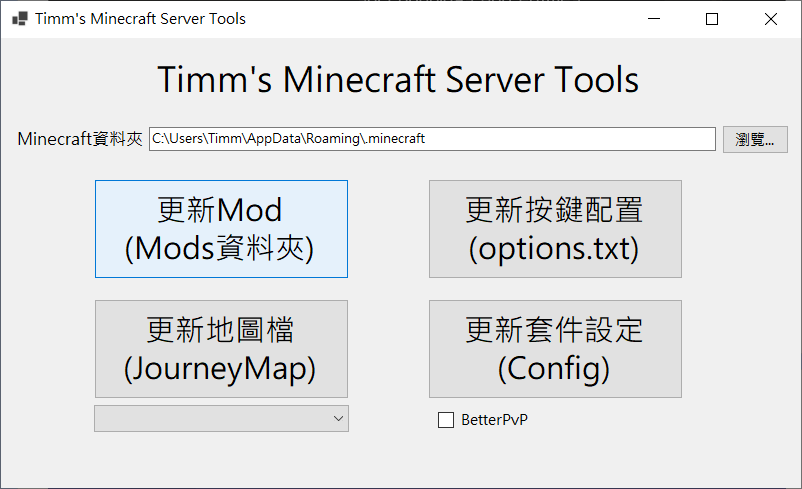
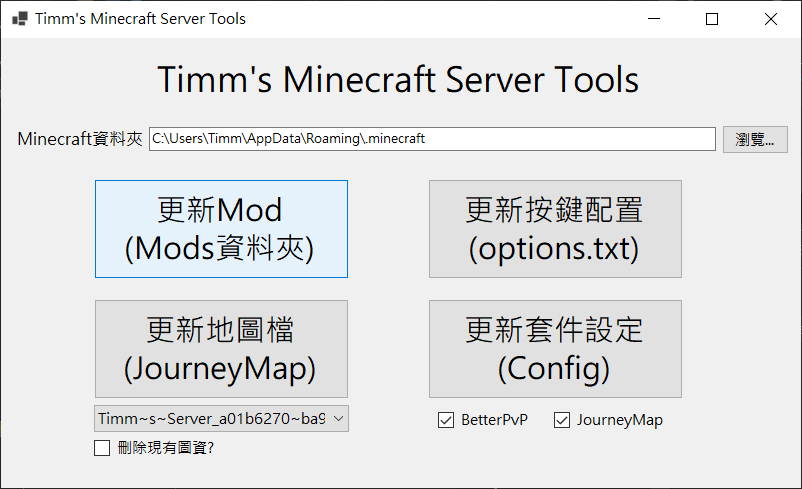
Update markdowns

diff --git a/setup.md b/setup.md
@@ -1,0 +1,82 @@
+# Timm's Minecraft Server安裝方法
+#### I 安裝Minecraft
+* 購買正版下載器<br>
+  (1) [購買](https://www.minecraft.net/zh-hans/store/minecraft-java-edition)帳號<br>
+  (2) 下載與安裝[啟動器](https://www.minecraft.net/zh-hans/download) <br>
+  (3) 下載與安裝Forge <br>
+  <img src="./images/3-1.png"  height="200">
+  <img src="./images/3-2.png"  height="200"><br>
+  (4) 開啟Launcher登入已購買的帳號 <br>
+  <img src="./images/3-3.png"  width="400"> <br>
+  (5) 新增安裝檔 <br>
+  <img src="./images/3-4.png"  width="600"> <br>
+  (6) 選剛才安裝好的 Release 1.16.5-forge-36.2.0 <br>
+  <img src="./images/3-5.png"  width="600"> <br>
+  (7) 點選"更多選項"，設定擴大RAM為4G (避免日後記憶體不足)  <br>
+  <img src="./images/7-2.png"  width="400"> <br>
+  (8) 等待安裝完成，開始遊戲即可! <br>
+  <img src="./images/3-6.png"  width="400"> <br>
+
+* 或先安裝第三方安裝程式<br>
+  ▹ [MC-Launcher](https://mc-launcher.com/launchers) <br>
+  (1) 先建立帳戶<br>
+  <img src="./images/2-1.png"  width="600"> <br>
+  (2) 選擇正版或其他帳戶，並輸入帳密或名稱<br>
+  <img src="./images/2-2.png"  width="600"> <br>
+  (3) 選定安裝版本(Forge 1.16.5)<br>
+  <img src="./images/2-3.png"  width="600"> <br>
+  
+#### II 安裝MOD與初始設定
+  1. **請下載自製"[檔案匯入小工具](https://github.com/timmchentw/Timms-Minecraft-Server/tree/main/files/Timm's%20Minecraft%20Tools)"** <br>
+  點選按鈕進行設定檔置換
+  ![](images/4.png)
+  2. **點選"安裝Mods"**<br>
+  會直接下載目前伺服器所需的所有MOD (下載期間請耐心等待)<br>
+  ※ 注意私自安裝的MOD會一併作刪除，更新前請先備份好<br>
+  (路徑為 C:/Users/XXX/AppData/Roaming/.minecraft/mods)
+
+  3. **點選"更新按鍵配置"**<br>
+  會套用符合使用的按鍵設定、語言、資源包設定等<br>
+  (路徑為 C:/Users/XXX/AppData/Roaming/.minecraft/options.txt)
+
+  4. **點選"更新套件設定"**<br>
+  勾選右下角的目標套件在進行點選，即可套用最新的MOD設定<br>
+  ※ BetterPvp為介面模組，有重複的小地圖功能，更新設定後會自動關閉掉<br>
+  (路徑為C:/Users/XXX/AppData/Roaming/.minecraft/config)<br>
+<br>
+  ※ 匯入地圖檔請在進入多人遊戲後，再做匯入，否則找不到多人世界的資料夾!<br>
+  ※ 日後伺服器MOD或地圖檔有更新時，再打開小工具快速更新即可! 
+  
+#### III 連線到多人伺服器
+  1. **新增多人伺服器**<br>
+  點選多人遊戲→新增伺服器，伺服器名稱自定義(待會匯入地圖檔會用到)、<br>
+  網址輸入"minecraft.timmchen.com"，點選完成後直接連線
+  <img src="./images/5-1.png"  width="500"> <br>
+  <img src="./images/5-2.png"  width="500"> <br>
+  <img src="./images/5-3.png"  width="500"> <br>
+  2. **送出申請表單**<br>
+  此時進入多人遊戲後會被擋住，請先到[主頁表單連結](./readme.md#申請與安裝方法)填寫入伺服器申請，<br>
+  送出表單後，通知OP人工核准後始可登入<br>
+  <br>
+  Ps. 伺服器使用Simple login模組避免帳號被盜用，<br>
+  第一次連線請輸入密碼，進入伺服器將會把此密碼存入 (之後進入遊戲不需再輸入)<br>
+  相關注意事項如下：<br>
+        1. 如需更改密碼：可在遊戲中輸入/sl_change_password 更改<br>
+        2. 如忘記密碼：可以到你的電腦路徑C:\Users\XXX\AppData\Roaming\.minecraft\.sl_password中查看<br>
+        3. 如重裝minecraft：請設定跟當初第一次進入伺服器一樣的密碼才能連線，如忘記請通知OP重設密碼<br>
+        <img src="./images/5-4.png"  width="400"> <br>
+        
+#### IV 匯入地圖檔
+* Server使用JourneyMap Mod作為世界地圖，圖資生成存在自己電腦內 (自己要開黑色區域)，並可儲存WayPoints指出方位，可參考[Mod官網](https://journeymap.info/Multiplayer_Server_Map)
+* 請使用上方提到的"[匯入小工具]()"，將最新版的全地圖檔匯入剛才新增的"多人世界" (下拉式選單選擇名稱)，重新進入世界後即可全開地圖!
+* 地圖檔只會在自己周圍更新，因此推薦可造飛機多繞繞地圖~<br>
+    (地圖檔路徑在 C:\users\XXX\AppData\Roaming\.minecraft\journeymap\data\mp\SERVER_NAME)
+    <img src="./images/8-1.png"  width="400"> <br>
+    <img src="./images/8-3.png"  width="600"> <br>
+    
+## 疑難排解
+1. 安裝有問題的話請裝[Java](https://www.java.com/zh-TW/download/manual.jsp)看看
+2. 如果進入伺服器遇到Mod List不符的錯誤訊息，請再用小工具更新Mods即可
+3. 伺服器列表右下角打紅色叉叉不影響進入 (此為Mod檢查，玩家Mod部分多於Server Mod數量，正常)
+4. 因Mod眾多，按鈕有許多衝突，建議一定要用小工具匯入options.txt，確保按鈕都正常運作 (也可在ESC→選項→按鍵設定)
+5. 預設Minecraft僅允許2GB的RAM使用量，如使用光影或較細緻的材質包切換時可能會使遊戲當掉，建議務必在啟動器的"安裝檔設定"當中將"-Xmx2G"擴大到至少"-Xmx4G"以上

diff --git a/readme.md b/readme.md
@@ -1,21 +1,22 @@
-#Timm's Minecraft Server
+# Timm's Minecraft Server
 
-<img src="./images/0.png"  width="600" style="box-shadow: 0 0 10px 1px rgba(0, 0, 0, 0.7);">
-<img src="https://docs.google.com/drawings/d/e/2PACX-1vQvHInp69r4fQ1aUIF2Jm4krgCnhwB6Ufdxi76_wB9l0t6WiSDdPwJxcYIYg1KTWvgbxDqt6CGMrl4F/pub?w=640&amp;h=640">
+<img src="https://docs.google.com/drawings/d/e/2PACX-1vQvHInp69r4fQ1aUIF2Jm4krgCnhwB6Ufdxi76_wB9l0t6WiSDdPwJxcYIYg1KTWvgbxDqt6CGMrl4F/pub?w=500&amp;h=500">
+
 * [協作地圖](https://docs.google.com/drawings/d/14CkqO0yurGKy7m1i6QX_AyAPa7ecaTq3OsKWUSnJWo4/edit?usp=sharing)<br>
 * [模組與設定匯入小工具](https://github.com/timmchentw/Timms-Minecraft-Server/tree/main/files/Timm's%20Minecraft%20Tools) <br>
-* 快速上手<br>
-* Mod圖說<br>
-* Mod詳細列表<br>
+* [快速上手](https://docs.google.com/presentation/d/1msM5YNsXpt14wGQ0t3xbDOrEIKE55fgAX7pzxHYfUho/edit?usp=sharing)<br>
+* [Mod圖說](https://docs.google.com/document/d/1Qc1ljT_9D0RBvlq08HDihXI4edl3lFVBeVYlCp3eM38/edit?usp=sharing)<br>
+* [Mod詳細列表](https://docs.google.com/spreadsheets/d/1DfdwHGWw16sB9SxYdnkzX8Z524wlGDj4/edit?usp=sharing&ouid=115710445649749300574&rtpof=true&sd=true)<br>
+* World Seed: -2084759484 <br>
 <br>
 
-##安裝與申請方法
+## 申請與安裝方法
 伺服器採核准制、開發新地區請先通知OP (協作地圖劃領地，避免搶地) <br>
-[填寫申請表單](https://docs.google.com/forms/d/e/1FAIpQLScS9ufVmnlSQZY-I-1Bgzz4fMALIoKJcxtk1ZWwJKomBBDzSw/viewform)
+[>>填寫申請表單](https://docs.google.com/forms/d/e/1FAIpQLScS9ufVmnlSQZY-I-1Bgzz4fMALIoKJcxtk1ZWwJKomBBDzSw/viewform)<br>
+[>>安裝步驟](./setup.md)
 
 
-
-##社群
+## 社群與資源
 * Line官方帳號<br>
 歡迎加入Line聊天機器人，可快速查看連結與即時接收伺服器更新通知!<br>
 <img src="./images/1.png"  width="200">
@@ -23,3 +24,50 @@
 * Discord<br>
 歡迎加入[Discord](https://discord.gg/XSmgz6SaTq)在遊戲中交談! 
 <img src="./images/6.png"  width="600">
+
+* [Official Skin](https://www.minecraft.net/zh-hans/msaprofile/mygames/editskin)
+* [BlessingSkin](https://skin.prinzeugen.net/)
+
+
+
+
+## 伺服器須知
+1. 伺服器地圖檔每天都會做備份，檔案保留三天 (平日24:00、假日12:00 & 18:00 & 24:00)
+2. 考慮未來升版本，將不會更新已開發區域，再請盡量把家蓋在+-1000的座標以內，以便外圍區域套用到新版本內容
+3. 地圖因檔案大小將定期刪除沒用到的區域，請盡量避免將物品放置在離市中心太遠的地方 (座標+-2000)
+4. Skin Mod 建議使用正版帳號[上傳](https://www.minecraft.net/zh-hans/msaprofile/mygames/editskin)、或推薦第三方Skin站：[BlessingSkin](https://skin.prinzeugen.net/) 搭配MC-Laucher
+     <br>(不建議使用TLaucher進行遊戲，他有自己的Skin，另外也支援以下第三方skin站：LittleSkin, Elyby, SkinMe, GlitchlessGames)<br>
+     <img src="./images/9-1.png"  height="180">
+     <img src="./images/9-2.png"  height="180">
+5. 伺服器會鎖定登入的user name (依據安裝第4步的輸入名稱來開通)，日後登入請用同一個user name進入
+6. 如果進入伺服器遇到Mod List不符的錯誤訊息，請再用小工具更新Mods即可
+7. 相同seed建立的新世界的地形都會一樣，可參考本伺服器的seed來搜尋史萊姆區塊
+
+## 推薦光影模組與材質包
+#### **[材質包]**
+* 下載到C:/users/XXX/AppData/Roaming/.minecraft/resourcepacks
+1. [Misa's Realistic (64x)](https://resourcepack.net/misas-realistic-resource-pack/) → 與原版風格較為搭配的擬真材質，順暢度較佳
+
+
+2. [LB Photo Realism Reload! (128x)](https://www.curseforge.com/minecraft/texture-packs/lb-photo-realism-reload?__cf_chl_jschl_tk__=cT4oDCiCWcaSoG5w10BIlG0p0EW78OQ10VuWSPnfDAQ-1638681561-0-gaNycGzNDL0) → 極致擬真材質，火焰特效極佳 (可與Misa搭配，可套用到混合特效)
+
+
+3. [Compliance (64x)](https://www.curseforge.com/minecraft/texture-packs/compliance-64x) → 原版風格的高畫質版本
+
+
+4. [Steven's Traditional (64x)](https://www.curseforge.com/minecraft/texture-packs/stevens-traditional) → 原版風格還原度極高的版本，較為平滑
+
+#### **[光影]**
+* 下載到C:/users/XXX/AppData/Roaming/.minecraft/shaderpacks
+1. [BLS](https://www.curseforge.com/minecraft/customization/bsl-shaders) → 光暈效果極佳，目前最滿意
+
+
+2. [Complementary Shaders](https://www.curseforge.com/minecraft/customization/complementary-shaders) → 介於上者與下者
+
+
+3. [Tea Shaders](https://www.curseforge.com/minecraft/customization/beyondbelief-vanilla-reborn) → 效果較少，效能較佳
+
+4. [SEAUS](https://www.sonicether.com/seus/) → 經典光影模組
+
+![](images/10.png)
+Misa (ResourcePack) + BLS (Shaders)
